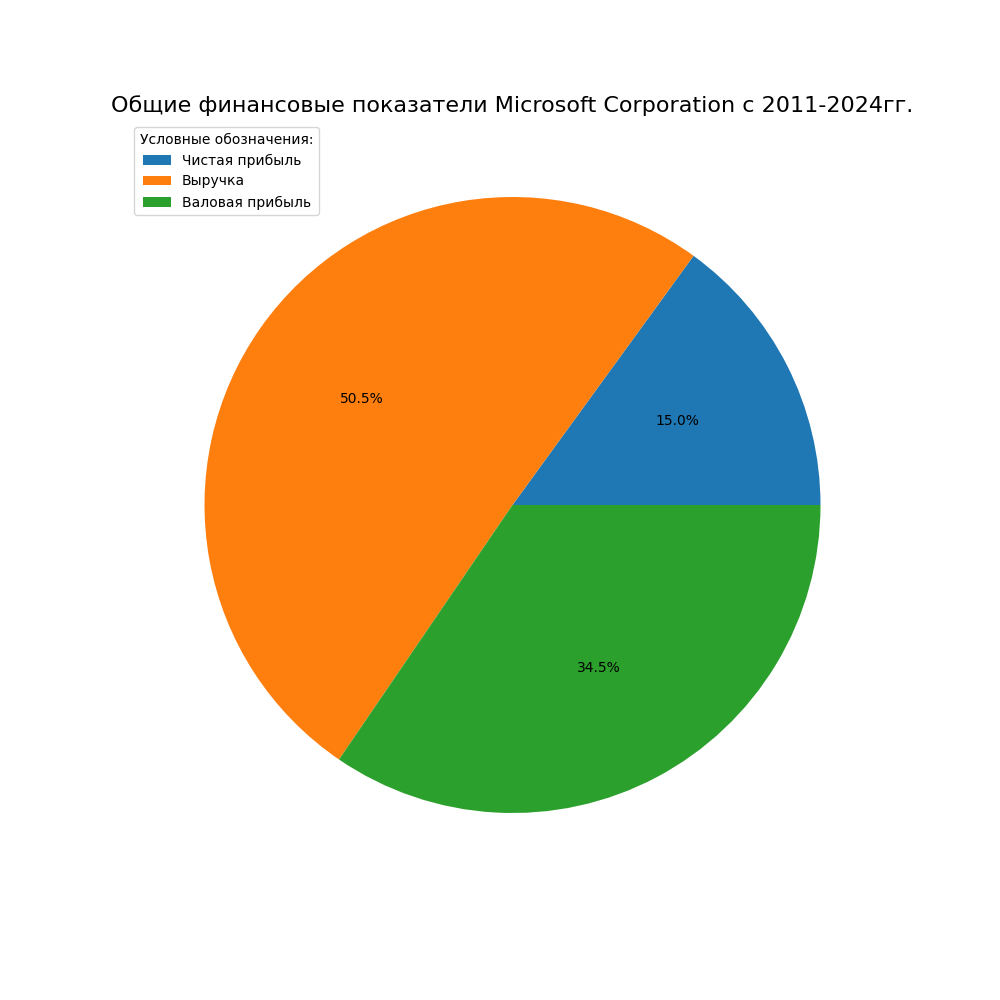
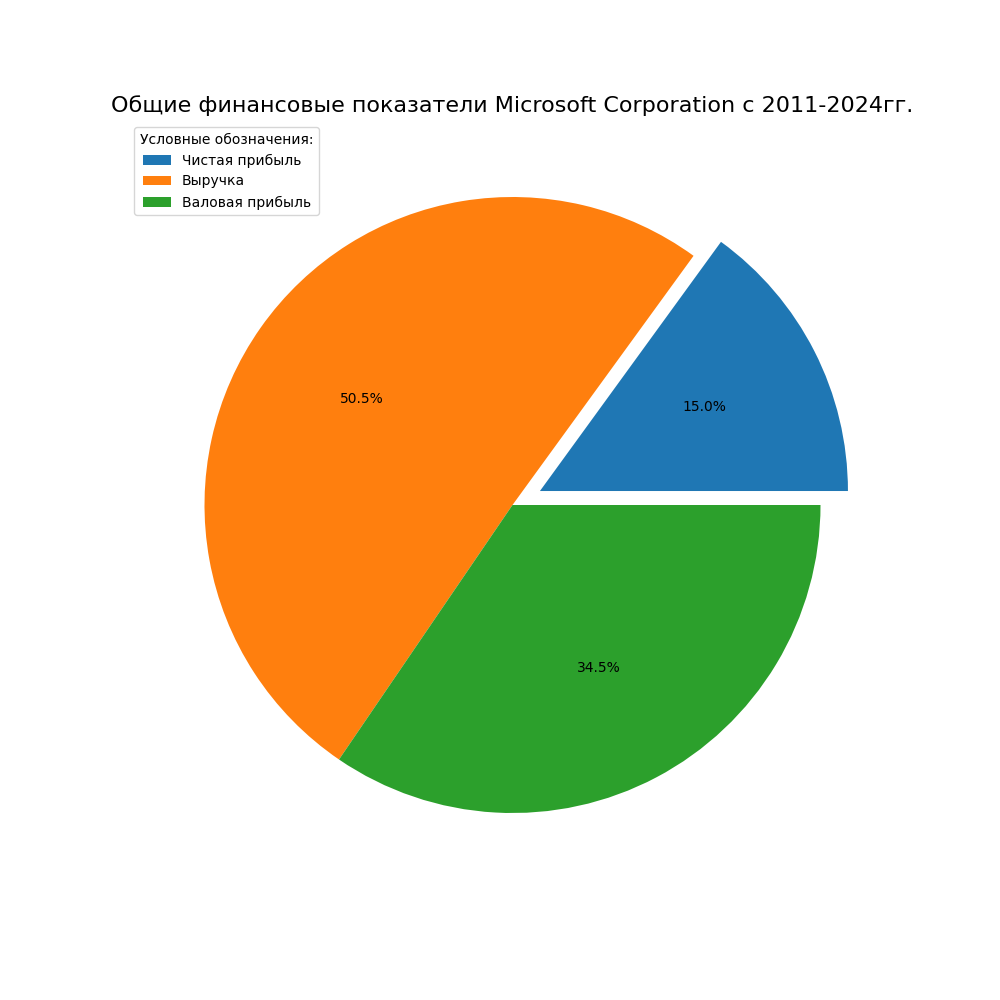
upd_matplotlib

Changed region(s): [[0.496, 0.248, 0.868, 0.527], [0.651, 0.403, 0.713, 0.434]]

diff --git a/grafics/graf_PLT.py b/grafics/graf_PLT.py
@@ -7,11 +7,10 @@ df = pd.read_csv('MSFT.csv', sep=',')  # df - data frame
 df.head()
 
 # Назначение переменных данным из CSV файла
-a = df['year']
-b = df['earnings']
-c = df['revenue']
-d = df['gross_profit']
-e = df['number_of_shares']
+a = df['year']          # Год
+b = df['earnings']      # Выручка
+c = df['revenue']       # Чистая прибыль
+d = df['gross_profit']  # Валовая прибыль
 
 # Создание линейного графика
 plt.figure(figsize=(10, 8))  # Задание размера графика
@@ -35,12 +34,13 @@ plt.xlabel('Год', color='gray')
 plt.ylabel('Млрд. $', color='gray')
 plt.title('Финансовые показатели Microsoft Corporation с 2011-2024гг.', fontsize=16)
 plt.legend(['Выручка', 'Валовая прибыль', 'Чистая прибыль'], loc=2, title='Условные обозначения:')
-plt.savefig('histogram_PLT.png')
+plt.savefig('bar_PLT.png')
 plt.show()
 
 # Создание круговой диаграммы
 plt.figure(figsize=(10, 10))
-df[df.columns[1:4]].sum().plot.pie(autopct='%1.1f%%', labels=None)
+exploding = [0.1, 0, 0]
+df[df.columns[1:4]].sum().plot.pie(autopct='%1.1f%%', labels=None, explode=exploding)
 plt.legend(['Чистая прибыль', 'Выручка', 'Валовая прибыль'], loc=2, title='Условные обозначения:')
 plt.title('Общие финансовые показатели Microsoft Corporation с 2011-2024гг.', fontsize=16)
 plt.savefig('circular_PLT.png')
